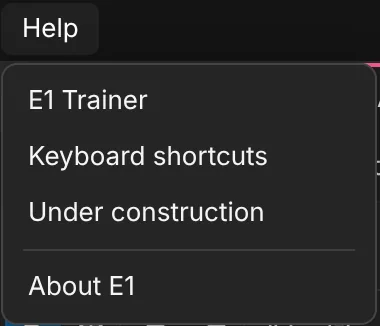
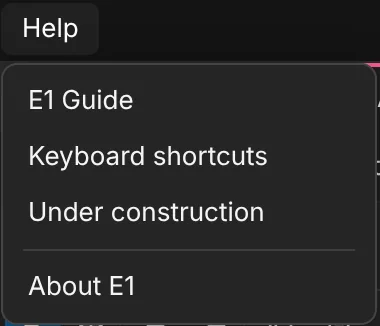
E1 Trainer is now called E1 Guide
- AI-alex-trainer (id and anchor kept): E1 Guide, in its title, steps and
  the Help menu; Help menu screenshot retaken
- USER-GUIDES.md and CLAUDE.md name the E1 Guide

Claude-Session: https://claude.ai/code/session_011w3qqhWYsLRpsxPp1PKDeS

Changed region(s): [[0.1447, 0.2761, 0.4053, 0.3374]]

diff --git a/guide-ai.html b/guide-ai.html
@@ -41,7 +41,7 @@
           <li><a href="#ai-side-panel">The Alex and Cloud AI panel</a></li>
           <li><a href="#ai-alex">Alex: turn on the built-in engineering co-worker</a></li>
           <li><a href="#ai-alex-why">Why “Alex”? What stays local</a></li>
-          <li><a href="#ai-alex-trainer">E1 Trainer: Alex shows you how, where you are</a></li>
+          <li><a href="#ai-alex-trainer">E1 Guide: Alex shows you how, where you are</a></li>
           <li><a href="#ai-alex-skill-level">Choose Alex&#x27;s skill and level</a></li>
           <li><a href="#ai-alex-cards">Read and act on Alex&#x27;s cards</a></li>
           <li><a href="#ai-alex-simulation">Read Alex&#x27;s simulation results</a></li>
@@ -174,11 +174,11 @@
 </section>
 
 <section class="g-feature" id="ai-alex-trainer">
-  <h2>E1 Trainer: Alex shows you how, where you are</h2>
+  <h2>E1 Guide: Alex shows you how, where you are</h2>
   <div class="g-meta"><span class="g-status available">Available</span><span>Since 2026-11-07</span><span class="g-id">AI-alex-trainer</span></div>
-  <p class="g-summary">Alex has a second mode, E1 Trainer. Instead of reviewing your drawing, Alex offers short lessons for the place you are in, for example in Configuration → Object classes: look up a class, add a new class, give a class more attributes. A lesson shows a bubble on the real button, tells you what it is for and what to click, and goes on one bubble at a time. Above all, the bubbles teach what you cannot see on screen: double-clicks, right-click menus, dragging, keys and the order of the steps, each shown as a badge. Every bubble links to the matching section of this guide.</p>
+  <p class="g-summary">Alex has a second mode, E1 Guide. Instead of reviewing your drawing, Alex offers short lessons for the place you are in, for example in Configuration → Object classes: look up a class, add a new class, give a class more attributes. A lesson shows a bubble on the real button, tells you what it is for and what to click, and goes on one bubble at a time. Above all, the bubbles teach what you cannot see on screen: double-clicks, right-click menus, dragging, keys and the order of the steps, each shown as a badge. Every bubble links to the matching section of this guide.</p>
   <dl class="g-facts">
-    <dt>Where</dt><dd><span class="ui">Alex</span> tab → <span class="ui">E1 Trainer</span>, or <span class="ui">Help</span> → <span class="ui">E1 Trainer</span></dd>
+    <dt>Where</dt><dd><span class="ui">Alex</span> tab → <span class="ui">E1 Guide</span>, or <span class="ui">Help</span> → <span class="ui">E1 Guide</span></dd>
     <dt>Who</dt><dd>Everyone; a lesson can be taken as often as you like</dd>
     <dt>Before you start</dt><dd>The Alex and Cloud AI panel is shown.</dd>
   </dl>
@@ -186,7 +186,7 @@
   <div class="g-table-wrap"><table class="g-steps">
     <thead><tr><th>#</th><th>Action</th><th>Expected result</th></tr></thead>
     <tbody>
-      <tr><td>1</td><td>Open <span class="ui">Configuration</span> on the left rail, then click <span class="ui">E1 Trainer</span> at the top of the Alex tab.</td><td>The header reads "E1 Trainer · learn E1 where you are". Under <span class="ui">Here: Configuration → Object classes</span> the lessons of this section are listed as boxes, then the lessons under <span class="ui">Anywhere in E1</span>.</td></tr>
+      <tr><td>1</td><td>Open <span class="ui">Configuration</span> on the left rail, then click <span class="ui">E1 Guide</span> at the top of the Alex tab.</td><td>The header reads "E1 Guide · learn E1 where you are". Under <span class="ui">Here: Configuration → Object classes</span> the lessons of this section are listed as boxes, then the lessons under <span class="ui">Anywhere in E1</span>.</td></tr>
       <tr><td>2</td><td>Click the box <span class="ui">Add a new class</span>.</td><td><span class="ui">Company library</span> in the section bar is ringed. A bubble says "1 / 8", explains that new classes are made in the company library, and reads "Click the highlighted control to go on."</td></tr>
       <tr><td>3</td><td>Click <span class="ui">Company library</span>.</td><td>The Company library opens and the bubble moves to <span class="ui">Library</span> ("2 / 8"). The Alex tab now reads <span class="ui">Here: Configuration → Company library</span>.</td></tr>
       <tr><td>4</td><td>Click <span class="ui">Learn more in the user guide ↗</span> in the bubble.</td><td>The user guide opens on its section about the project library, in a new tab (in the desktop app, in your browser).</td></tr>

diff --git a/guide-features.html b/guide-features.html
@@ -258,7 +258,7 @@
             <tr data-status="available" data-cat="ai"><td class="g-id">AI-side-panel</td><td><a href="guide-ai.html#ai-side-panel">The Alex and Cloud AI panel</a><br><span class="muted">The right-hand panel holds Alex and Cloud AI, one tab each, and can be hidden and shown from the left rail.</span></td><td>AI: Alex and Cloud AI</td><td><span class="g-status available">Available</span></td><td class="g-date"></td><td class="g-date">2026-11-06</td><td></td><td></td><td>The Alex and Cloud AI panel</td></tr>
             <tr data-status="available" data-cat="ai"><td class="g-id">AI-alex</td><td><a href="guide-ai.html#ai-alex">Alex: turn on the built-in engineering co-worker</a><br><span class="muted">Alex reads your sheet as you work and lists warnings, questions and suggestions, locally, with no language model.</span></td><td>AI: Alex and Cloud AI</td><td><span class="g-status available">Available</span></td><td class="g-date"></td><td class="g-date">2026-11-07</td><td></td><td></td><td>Meet Alex</td></tr>
             <tr data-status="available" data-cat="ai"><td class="g-id">AI-alex-why</td><td><a href="guide-ai.html#ai-alex-why">Why “Alex”? What stays local</a><br><span class="muted">A note in the Alex tab explains the name and that Alex sends nothing outside.</span></td><td>AI: Alex and Cloud AI</td><td><span class="g-status available">Available</span></td><td class="g-date">2026-11-06</td><td class="g-date"></td><td></td><td></td><td>Why Alex is a local AI</td></tr>
-            <tr data-status="available" data-cat="ai"><td class="g-id">AI-alex-trainer</td><td><a href="guide-ai.html#ai-alex-trainer">E1 Trainer: Alex shows you how, where you are</a><br><span class="muted">Alex&#x27;s trainer mode offers lessons for the place you are in and guides you through them with bubbles on the real buttons, each linked to this guide.</span></td><td>AI: Alex and Cloud AI</td><td><span class="g-status available">Available</span></td><td class="g-date">2026-11-07</td><td class="g-date"></td><td></td><td></td><td>Learning E1 with the E1 Trainer</td></tr>
+            <tr data-status="available" data-cat="ai"><td class="g-id">AI-alex-trainer</td><td><a href="guide-ai.html#ai-alex-trainer">E1 Guide: Alex shows you how, where you are</a><br><span class="muted">Alex&#x27;s trainer mode offers lessons for the place you are in and guides you through them with bubbles on the real buttons, each linked to this guide.</span></td><td>AI: Alex and Cloud AI</td><td><span class="g-status available">Available</span></td><td class="g-date">2026-11-07</td><td class="g-date"></td><td></td><td></td><td>Learning E1 with the E1 Guide</td></tr>
             <tr data-status="available" data-cat="ai"><td class="g-id">AI-alex-skill-level</td><td><a href="guide-ai.html#ai-alex-skill-level">Choose Alex&#x27;s skill and level</a><br><span class="muted">The skill decides which engineer reads the drawing; the level decides how much Alex tells you.</span></td><td>AI: Alex and Cloud AI</td><td><span class="g-status available">Available</span></td><td class="g-date"></td><td class="g-date">2026-11-07</td><td></td><td></td><td>Alex&#x27;s skill and level</td></tr>
             <tr data-status="available" data-cat="ai"><td class="g-id">AI-alex-cards</td><td><a href="guide-ai.html#ai-alex-cards">Read and act on Alex&#x27;s cards</a><br><span class="muted">Each finding is a card with why, where, and a fix, an answer field or a way to set it aside.</span></td><td>AI: Alex and Cloud AI</td><td><span class="g-status available">Available</span></td><td class="g-date">2026-11-06</td><td class="g-date">2026-11-07</td><td></td><td></td><td>Working with Alex&#x27;s findings</td></tr>
             <tr data-status="available" data-cat="ai"><td class="g-id">AI-alex-simulation</td><td><a href="guide-ai.html#ai-alex-simulation">Read Alex&#x27;s simulation results</a><br><span class="muted">When Alex has simulated the open sheet, its results appear as Simulation results cards with the method, the inputs, the assumptions and the result tables.</span></td><td>AI: Alex and Cloud AI</td><td><span class="g-status available">Available</span></td><td class="g-date">2026-11-08</td><td class="g-date">2026-11-08</td><td></td><td></td><td>Alex&#x27;s simulation results</td></tr>

diff --git a/tools/guides/src/ai.html b/tools/guides/src/ai.html
@@ -92,11 +92,11 @@
 </section>
 
 <section class="g-feature" id="ai-alex-trainer">
-  <h2>E1 Trainer: Alex shows you how, where you are</h2>
+  <h2>E1 Guide: Alex shows you how, where you are</h2>
   <div class="g-meta"><span class="g-status available">Available</span><span>Since 2026-11-07</span><span class="g-id">AI-alex-trainer</span></div>
-  <p class="g-summary">Alex has a second mode, E1 Trainer. Instead of reviewing your drawing, Alex offers short lessons for the place you are in, for example in Configuration → Object classes: look up a class, add a new class, give a class more attributes. A lesson shows a bubble on the real button, tells you what it is for and what to click, and goes on one bubble at a time. Above all, the bubbles teach what you cannot see on screen: double-clicks, right-click menus, dragging, keys and the order of the steps, each shown as a badge. Every bubble links to the matching section of this guide.</p>
+  <p class="g-summary">Alex has a second mode, E1 Guide. Instead of reviewing your drawing, Alex offers short lessons for the place you are in, for example in Configuration → Object classes: look up a class, add a new class, give a class more attributes. A lesson shows a bubble on the real button, tells you what it is for and what to click, and goes on one bubble at a time. Above all, the bubbles teach what you cannot see on screen: double-clicks, right-click menus, dragging, keys and the order of the steps, each shown as a badge. Every bubble links to the matching section of this guide.</p>
   <dl class="g-facts">
-    <dt>Where</dt><dd><span class="ui">Alex</span> tab → <span class="ui">E1 Trainer</span>, or <span class="ui">Help</span> → <span class="ui">E1 Trainer</span></dd>
+    <dt>Where</dt><dd><span class="ui">Alex</span> tab → <span class="ui">E1 Guide</span>, or <span class="ui">Help</span> → <span class="ui">E1 Guide</span></dd>
     <dt>Who</dt><dd>Everyone; a lesson can be taken as often as you like</dd>
     <dt>Before you start</dt><dd>The Alex and Cloud AI panel is shown.</dd>
   </dl>
@@ -104,7 +104,7 @@
   <div class="g-table-wrap"><table class="g-steps">
     <thead><tr><th>#</th><th>Action</th><th>Expected result</th></tr></thead>
     <tbody>
-      <tr><td>1</td><td>Open <span class="ui">Configuration</span> on the left rail, then click <span class="ui">E1 Trainer</span> at the top of the Alex tab.</td><td>The header reads "E1 Trainer · learn E1 where you are". Under <span class="ui">Here: Configuration → Object classes</span> the lessons of this section are listed as boxes, then the lessons under <span class="ui">Anywhere in E1</span>.</td></tr>
+      <tr><td>1</td><td>Open <span class="ui">Configuration</span> on the left rail, then click <span class="ui">E1 Guide</span> at the top of the Alex tab.</td><td>The header reads "E1 Guide · learn E1 where you are". Under <span class="ui">Here: Configuration → Object classes</span> the lessons of this section are listed as boxes, then the lessons under <span class="ui">Anywhere in E1</span>.</td></tr>
       <tr><td>2</td><td>Click the box <span class="ui">Add a new class</span>.</td><td><span class="ui">Company library</span> in the section bar is ringed. A bubble says "1 / 8", explains that new classes are made in the company library, and reads "Click the highlighted control to go on."</td></tr>
       <tr><td>3</td><td>Click <span class="ui">Company library</span>.</td><td>The Company library opens and the bubble moves to <span class="ui">Library</span> ("2 / 8"). The Alex tab now reads <span class="ui">Here: Configuration → Company library</span>.</td></tr>
       <tr><td>4</td><td>Click <span class="ui">Learn more in the user guide ↗</span> in the bubble.</td><td>The user guide opens on its section about the project library, in a new tab (in the desktop app, in your browser).</td></tr>

diff --git a/guide-getting-started.html b/guide-getting-started.html
@@ -292,25 +292,25 @@
 <section class="g-feature" id="gs-menu-help">
   <h2>The Help menu and About E1</h2>
   <div class="g-meta"><span class="g-status available">Available</span><span>Updated 2026-11-07</span><span class="g-id">GS-menu-help</span></div>
-  <p class="g-summary">The Help menu starts the E1 Trainer, lists the keyboard shortcuts, opens Under construction (what is still being built) and shows which version of E1 you run.</p>
+  <p class="g-summary">The Help menu starts the E1 Guide, lists the keyboard shortcuts, opens Under construction (what is still being built) and shows which version of E1 you run.</p>
   <dl class="g-facts">
     <dt>Where</dt><dd>Menu bar → <span class="ui">Help</span></dd>
     <dt>Who</dt><dd>Everyone</dd>
     <dt>Before you start</dt><dd>E1 is open.</dd>
   </dl>
   <h3>Items</h3>
-  <p><span class="ui">E1 Trainer</span>, <span class="ui">Keyboard shortcuts</span>, <span class="ui">Under construction</span>, then after a divider <span class="ui">About E1</span>.</p>
+  <p><span class="ui">E1 Guide</span>, <span class="ui">Keyboard shortcuts</span>, <span class="ui">Under construction</span>, then after a divider <span class="ui">About E1</span>.</p>
   <h3>Steps</h3>
   <div class="g-table-wrap"><table class="g-steps">
     <thead><tr><th>#</th><th>Action</th><th>Expected result</th></tr></thead>
     <tbody>
       <tr><td>1</td><td>Click <span class="ui">Help</span>.</td><td>The menu shows the four items.</td></tr>
-      <tr><td>2</td><td>Choose <span class="ui">E1 Trainer</span>.</td><td>The side panel opens (if it was hidden) on the <span class="ui">Alex</span> tab, with <span class="ui">E1 Trainer</span> pressed; the header reads "E1 Trainer · learn E1 where you are".</td></tr>
+      <tr><td>2</td><td>Choose <span class="ui">E1 Guide</span>.</td><td>The side panel opens (if it was hidden) on the <span class="ui">Alex</span> tab, with <span class="ui">E1 Guide</span> pressed; the header reads "E1 Guide · learn E1 where you are".</td></tr>
       <tr><td>3</td><td>Choose <span class="ui">Help → About E1</span>.</td><td>A dialog titled <span class="ui">E1</span> opens with "Engineering workspace", "One project for the plant. Drawings, lists, and Cloud AI read the same objects." and "Version 0.1.0".</td></tr>
       <tr><td>4</td><td>Click <span class="ui">Close</span> (or click outside the card).</td><td>The dialog closes.</td></tr>
     </tbody>
   </table></div>
-  <figure class="g-shot g-small" style="max-width:190px"><img src="assets/img/guides/menu-help.webp" alt="The open Help menu: E1 Trainer, Keyboard shortcuts, Under construction, About E1" width="380" height="326" loading="lazy"><figcaption>The Help menu.</figcaption></figure>
+  <figure class="g-shot g-small" style="max-width:190px"><img src="assets/img/guides/menu-help.webp" alt="The open Help menu: E1 Guide, Keyboard shortcuts, Under construction, About E1" width="380" height="326" loading="lazy"><figcaption>The Help menu.</figcaption></figure>
   <figure class="g-shot g-small" style="max-width:428px"><img src="assets/img/guides/help-about.webp" alt="The About E1 dialog: E1, Engineering workspace, the one-line description, Version 0.1.0 and a Close button" width="856" height="428" loading="lazy"><figcaption>About E1.</figcaption></figure>
   <p class="g-related">Related: <a href="#gs-shortcuts">Keyboard shortcuts</a> · <a href="#gs-under-construction">Under construction and the roadmap</a> · <a href="guide-ai.html#ai-alex">Alex</a></p>
 </section>

diff --git a/tools/guides/src/getting-started.html b/tools/guides/src/getting-started.html
@@ -225,25 +225,25 @@
 <section class="g-feature" id="gs-menu-help">
   <h2>The Help menu and About E1</h2>
   <div class="g-meta"><span class="g-status available">Available</span><span>Updated 2026-11-07</span><span class="g-id">GS-menu-help</span></div>
-  <p class="g-summary">The Help menu starts the E1 Trainer, lists the keyboard shortcuts, opens Under construction (what is still being built) and shows which version of E1 you run.</p>
+  <p class="g-summary">The Help menu starts the E1 Guide, lists the keyboard shortcuts, opens Under construction (what is still being built) and shows which version of E1 you run.</p>
   <dl class="g-facts">
     <dt>Where</dt><dd>Menu bar → <span class="ui">Help</span></dd>
     <dt>Who</dt><dd>Everyone</dd>
     <dt>Before you start</dt><dd>E1 is open.</dd>
   </dl>
   <h3>Items</h3>
-  <p><span class="ui">E1 Trainer</span>, <span class="ui">Keyboard shortcuts</span>, <span class="ui">Under construction</span>, then after a divider <span class="ui">About E1</span>.</p>
+  <p><span class="ui">E1 Guide</span>, <span class="ui">Keyboard shortcuts</span>, <span class="ui">Under construction</span>, then after a divider <span class="ui">About E1</span>.</p>
   <h3>Steps</h3>
   <div class="g-table-wrap"><table class="g-steps">
     <thead><tr><th>#</th><th>Action</th><th>Expected result</th></tr></thead>
     <tbody>
       <tr><td>1</td><td>Click <span class="ui">Help</span>.</td><td>The menu shows the four items.</td></tr>
-      <tr><td>2</td><td>Choose <span class="ui">E1 Trainer</span>.</td><td>The side panel opens (if it was hidden) on the <span class="ui">Alex</span> tab, with <span class="ui">E1 Trainer</span> pressed; the header reads "E1 Trainer · learn E1 where you are".</td></tr>
+      <tr><td>2</td><td>Choose <span class="ui">E1 Guide</span>.</td><td>The side panel opens (if it was hidden) on the <span class="ui">Alex</span> tab, with <span class="ui">E1 Guide</span> pressed; the header reads "E1 Guide · learn E1 where you are".</td></tr>
       <tr><td>3</td><td>Choose <span class="ui">Help → About E1</span>.</td><td>A dialog titled <span class="ui">E1</span> opens with "Engineering workspace", "One project for the plant. Drawings, lists, and Cloud AI read the same objects." and "Version 0.1.0".</td></tr>
       <tr><td>4</td><td>Click <span class="ui">Close</span> (or click outside the card).</td><td>The dialog closes.</td></tr>
     </tbody>
   </table></div>
-  <figure class="g-shot g-small"><img src="assets/img/guides/menu-help.webp" alt="The open Help menu: E1 Trainer, Keyboard shortcuts, Under construction, About E1" width="380" height="326" loading="lazy"><figcaption>The Help menu.</figcaption></figure>
+  <figure class="g-shot g-small"><img src="assets/img/guides/menu-help.webp" alt="The open Help menu: E1 Guide, Keyboard shortcuts, Under construction, About E1" width="380" height="326" loading="lazy"><figcaption>The Help menu.</figcaption></figure>
   <figure class="g-shot g-small"><img src="assets/img/guides/help-about.webp" alt="The About E1 dialog: E1, Engineering workspace, the one-line description, Version 0.1.0 and a Close button" width="856" height="428" loading="lazy"><figcaption>About E1.</figcaption></figure>
   <p class="g-related">Related: <a href="#gs-shortcuts">Keyboard shortcuts</a> · <a href="#gs-under-construction">Under construction and the roadmap</a> · <a href="guide-ai.html#ai-alex">Alex</a></p>
 </section>

diff --git a/CLAUDE.md b/CLAUDE.md
@@ -1,10 +1,10 @@
 # Working on the E1 website
 
-## The user guides, the app and the E1 Trainer are kept current together
+## The user guides, the app and the E1 Guide are kept current together
 
-The user guides (`tools/guides/`, rules in `docs/USER-GUIDES.md`) describe every feature of E1 (`Lanxtor/E1`). The app's **E1 Trainer** (Alex's trainer mode, `src/ui/trainer/lessons.mjs` in `Lanxtor/E1`) shows bubbles on the app's controls and links each one to a guide feature **by its id**.
+The user guides (`tools/guides/`, rules in `docs/USER-GUIDES.md`) describe every feature of E1 (`Lanxtor/E1`). The app's **E1 Guide** (Alex's guide mode, `src/ui/trainer/lessons.mjs` in `Lanxtor/E1`) shows bubbles on the app's controls and links each one to a guide feature **by its id**.
 
-- Every change to E1 that a user can see updates its guide feature here, and its trainer lesson in `Lanxtor/E1`.
-- Never rename or remove a feature id, and keep its `anchor` stable. If one must change, update the trainer's lessons in the same week.
+- Every change to E1 that a user can see updates its guide feature here, and its E1 Guide lesson in `Lanxtor/E1`.
+- Never rename or remove a feature id, and keep its `anchor` stable. If one must change, update the E1 Guide's lessons in the same week.
 - After changing the guides: `python3 tools/guides/build.py --check`, then in `Lanxtor/E1` run `node scripts/sync-guide-links.mjs` and its check (`npx vitest run tests/client/trainerKnowledge.test.mjs`).
-- A new guide feature for something on screen gets a trainer step too.
+- A new guide feature for something on screen gets an E1 Guide step too.

diff --git a/docs/USER-GUIDES.md b/docs/USER-GUIDES.md
@@ -8,13 +8,13 @@ The user guides are the *User guides* of the Academy on the account page (`accou
 
 Started 2026-11-07. Keeping them current is a standing job: every change to E1 that a user can see updates its guide in the same week.
 
-## Linked from E1 (the E1 Trainer)
+## Linked from E1 (the E1 Guide)
 
-E1's trainer (Alex → **E1 Trainer**, `Lanxtor/E1`, `docs/2-design/26-e1-trainer.md`) shows bubbles on the app's buttons, and each bubble links to a feature of these guides **by its feature id** (`LIB-company-library`). So:
+E1's in-app guide (Alex → **E1 Guide**, `Lanxtor/E1`, `docs/2-design/26-e1-trainer.md`) shows bubbles on the app's buttons, and each bubble links to a feature of these guides **by its feature id** (`LIB-company-library`). So:
 
 - Never rename or remove a feature id; keep its `anchor` stable. If one must change, update `src/ui/trainer/lessons.mjs` in `Lanxtor/E1` in the same week.
 - After the catalog changes, E1 runs `node scripts/sync-guide-links.mjs` (it reads `assets/data/user-guide-features.json` from this repository) and its check fails on a lesson that links to a missing or only planned feature.
-- A new guide feature for something on screen should get a trainer step in E1 too: the guides and the trainer's lessons are kept current together.
+- A new guide feature for something on screen should get an E1 Guide step in E1 too: the guides and the E1 Guide's lessons are kept current together.
 
 ## Files
 
